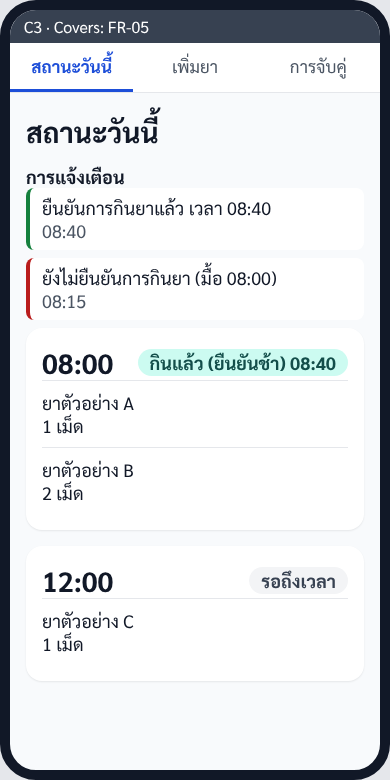
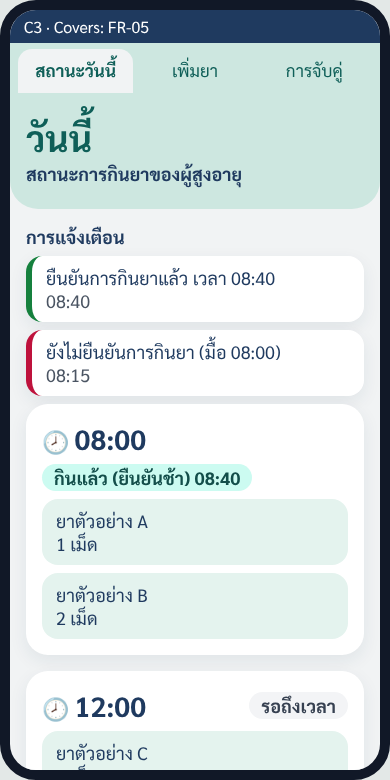
ปรับธีม prototype: โทนมิ้นต์ หัวข้อใหญ่ ปุ่มทรงแคปซูล
- tokens.css / app.css: พื้นเทาอ่อน + แถบหัวมิ้นต์, การ์ดขาวมุมมน, ปุ่มทรงแคปซูล,
  ปุ่มบันทึกยาวเต็มด้านล่างจอ, bottom sheet ยืนยันยกเลิกการจับคู่
- สีปุ่มเข้มพอให้ตัวขาวผ่าน contrast ≥ 4.5:1 (ต่ำสุด 5.02:1) · ขนาดตาม NFR-03 เดิม
- design-system.md §1: ตารางสี ขนาด และ contrast ตามธีมใหม่
- ภาพหน้าจอ S1–S3, C1–C3 ถ่ายใหม่

Claude-Session: https://claude.ai/code/session_011WknSPL7ZDt9uLxW735azq

diff --git a/prototype/src/app.css b/prototype/src/app.css
@@ -1,5 +1,5 @@
 * { box-sizing: border-box; }
-body { margin: 0; background: #E5E7EB; font-family: var(--font-family); color: var(--color-text); font-size: var(--font-body); }
+body { margin: 0; background: #E3E8E7; font-family: var(--font-family); color: var(--color-text); font-size: var(--font-body); }
 button, input, select, textarea { font: inherit; }
 
 /* ---------- เครื่องมือ demo (ไม่ใช่ส่วนของแอป) ---------- */
@@ -21,68 +21,88 @@ button, input, select, textarea { font: inherit; }
 .phone { width: 390px; max-width: calc(100vw - 24px); height: 780px; background: var(--color-bg); border: 10px solid #111827;
   border-radius: 36px; overflow: hidden; display: flex; flex-direction: column; position: relative; }
 .covers { background: var(--color-covers-bg); color: #fff; font-size: 16px; padding: 6px 14px; flex: none; }
-.screen { flex: 1; overflow-y: auto; padding: var(--space-2); }
-.screen h3 { font-size: var(--font-title); margin: 4px 0 var(--space-2); }
+.screen { flex: 1; overflow-y: auto; padding: 0 var(--space-2) var(--space-2); }
+
+/* แถบหัวมิ้นต์ + หัวข้อใหญ่ (สไตล์ "วันนี้" ในภาพอ้างอิง) */
+.hero { background: var(--color-header); margin: 0 calc(-1 * var(--space-2)) var(--space-2); padding: var(--space-3) var(--space-2) var(--space-3);
+  border-radius: 0 0 28px 28px; }
+.hero h3 { font-size: var(--font-hero); color: var(--color-title); margin: 0; line-height: 1.15; }
+.hero .sub { color: var(--color-text); font-weight: 600; margin-top: 4px; }
+.avatar { width: 84px; height: 84px; border-radius: 50%; background: var(--color-primary); color: #fff; display: grid; place-items: center;
+  font-size: 40px; margin: 0 auto var(--space-1); box-shadow: var(--shadow-card); }
 
 .card { background: var(--color-surface); border-radius: var(--radius-card); padding: var(--space-2); margin-bottom: var(--space-2);
-  box-shadow: 0 1px 2px rgba(0,0,0,.08); }
+  box-shadow: var(--shadow-card); }
 .muted { color: var(--color-text-muted); }
 .center { text-align: center; }
 
 .btn { display: block; width: 100%; min-height: var(--button-height); border: 0; border-radius: var(--radius-button);
-  font-size: var(--font-button); font-weight: 700; color: #fff; background: var(--color-primary); cursor: pointer; margin-top: var(--space-2); }
-.btn:disabled { background: #9CA3AF; cursor: not-allowed; }
+  font-size: var(--font-button); font-weight: 700; color: #fff; background: var(--color-primary); cursor: pointer; margin-top: 12px;
+  box-shadow: 0 4px 10px rgba(15, 118, 110, .18); }
+.btn:disabled { background: #9CA3AF; box-shadow: none; cursor: not-allowed; }
 .btn.taken { background: var(--color-taken); }
-.btn.not-yet { background: var(--color-not-yet); }
+.btn.not-yet { background: var(--color-not-yet); box-shadow: 0 4px 10px rgba(190, 18, 60, .18); }
 .btn.danger { background: var(--color-not-yet); }
-.btn.ghost { background: transparent; color: var(--color-primary); border: 2px solid var(--color-primary); }
-.pair-buttons .btn + .btn { margin-top: var(--space-2); }
+.btn.ghost { background: var(--color-mint-soft); color: var(--color-title); box-shadow: none; }
 .link { background: none; border: 0; color: var(--color-primary); text-decoration: underline; cursor: pointer; padding: 8px 0; font-size: var(--font-body); }
 
-.code { font-size: 44px; font-weight: 700; letter-spacing: 8px; font-variant-numeric: tabular-nums; }
+/* ปุ่มยาวเต็มด้านล่างจอ (สไตล์ "ต่อไป" ในภาพอ้างอิง) */
+.bottom-bar { flex: none; padding: 10px var(--space-2) 14px; background: var(--color-surface); box-shadow: 0 -4px 12px rgba(31, 58, 95, .08); }
+.bottom-bar .btn { margin-top: 0; }
+.bottom-bar .btn + .btn { margin-top: 8px; }
+
+.code { font-size: 44px; font-weight: 700; letter-spacing: 8px; font-variant-numeric: tabular-nums; color: var(--color-text); }
 canvas.qr { width: 168px; height: 168px; image-rendering: pixelated; display: block; margin: 0 auto var(--space-1); }
 
-.badge { display: inline-block; border-radius: var(--radius-badge); padding: 2px 12px; font-size: var(--font-body); font-weight: 600; }
+.badge { display: inline-block; border-radius: var(--radius-badge); padding: 2px 12px; font-size: var(--font-body); font-weight: 600; white-space: nowrap; }
 .badge.taken { color: var(--badge-taken-fg); background: var(--badge-taken-bg); }
 .badge.takenLate { color: var(--badge-late-fg); background: var(--badge-late-bg); }
 .badge.reminding { color: var(--badge-reminding-fg); background: var(--badge-reminding-bg); }
 .badge.unconfirmed { color: var(--badge-unconf-fg); background: var(--badge-unconf-bg); }
 .badge.waiting { color: var(--badge-waiting-fg); background: var(--badge-waiting-bg); }
 
-.meal-head { display: flex; justify-content: space-between; align-items: center; gap: 8px; }
-.meal-time { font-size: var(--font-title); font-weight: 700; }
-.med { border-top: 1px solid #E5E7EB; padding: 10px 0; }
-.med:first-of-type { border-top: 0; }
+.meal-head { display: flex; flex-wrap: wrap; justify-content: space-between; align-items: center; gap: 8px; margin-bottom: 8px; }
+.meal-time { font-size: var(--font-title); font-weight: 700; white-space: nowrap; }
+.meal-time::before { content: "🕗 "; font-size: 22px; }
+.med { background: var(--color-mint-soft); border-radius: 16px; padding: 10px 14px; margin-top: 8px; }
 .med-name { font-size: var(--font-medicine); font-weight: 700; }
 
-.banner { background: var(--badge-reminding-bg); color: var(--badge-reminding-fg); border-radius: var(--radius-card); padding: 12px; margin-bottom: var(--space-2); font-weight: 600; cursor: pointer; }
-.msg { border-radius: 12px; padding: 12px; margin: var(--space-2) 0; font-weight: 600; }
+.banner { background: var(--badge-reminding-bg); color: var(--badge-reminding-fg); border-radius: var(--radius-card); padding: 12px 16px; margin-bottom: var(--space-2); font-weight: 600; cursor: pointer; }
+.msg { border-radius: 16px; padding: 12px 16px; margin: var(--space-2) 0; font-weight: 600; }
 .msg.error { background: var(--badge-unconf-bg); color: var(--badge-unconf-fg); }
 .msg.ok { background: var(--badge-taken-bg); color: var(--badge-taken-fg); }
-.msg.info { background: var(--badge-waiting-bg); color: var(--badge-waiting-fg); }
+.msg.info { background: var(--color-surface); color: var(--color-text); box-shadow: var(--shadow-card); }
 
-.tabs { display: flex; background: var(--color-surface); border-bottom: 1px solid #E5E7EB; flex: none; }
-.tabs button { flex: 1; border: 0; background: none; padding: 12px 4px; font-size: 17px; cursor: pointer; color: var(--color-text-muted); border-bottom: 3px solid transparent; }
-.tabs button.active { color: var(--color-primary); border-bottom-color: var(--color-primary); font-weight: 700; }
+.tabs { display: flex; background: var(--color-header); flex: none; padding: 6px 8px 0; gap: 4px; }
+.tabs button { flex: 1; border: 0; background: none; padding: 10px 4px 12px; font-size: 17px; cursor: pointer; color: var(--color-title);
+  border-radius: 14px 14px 0 0; }
+.tabs button.active { background: var(--color-bg); font-weight: 700; }
+.tabs + .screen .hero { border-radius: 0 0 28px 28px; }
 
 .field { margin-bottom: 12px; }
 .field label { display: block; font-weight: 600; margin-bottom: 4px; }
-.field input, .field select, .field textarea { width: 100%; min-height: 48px; padding: 8px 10px; border: 1px solid #9CA3AF; border-radius: 10px; background: #fff; color: var(--color-text); }
+.field input, .field select, .field textarea { width: 100%; min-height: 52px; padding: 8px 16px; border: 2px solid transparent; border-radius: 18px;
+  background: var(--color-mint-soft); color: var(--color-text); }
+.field input:focus, .field select:focus { outline: none; border-color: var(--color-primary); background: #fff; }
 .field.check input, .field.check select { background: var(--color-check-bg); border-color: var(--color-check-text); }
-.check-tag { display: inline-block; margin-left: 6px; color: var(--color-check-text); background: var(--color-check-bg); border-radius: 6px; padding: 0 8px; font-size: 16px; font-weight: 600; }
+.check-tag { display: inline-block; margin-left: 6px; color: var(--color-check-text); background: var(--color-check-bg); border-radius: 999px; padding: 0 10px; font-size: 16px; font-weight: 600; }
 .grid2 { display: grid; grid-template-columns: 1fr 1fr; gap: 8px; }
-.samples button { display: block; width: 100%; text-align: left; margin-bottom: 8px; padding: 12px; min-height: 56px; border-radius: 12px; border: 1px solid #9CA3AF; background: #fff; cursor: pointer; }
+.samples button { display: block; width: 100%; text-align: left; margin-bottom: 10px; padding: 12px 16px; min-height: 56px; border-radius: 18px;
+  border: 0; background: var(--color-surface); box-shadow: var(--shadow-card); cursor: pointer; color: var(--color-text); }
 .samples small { display: block; color: var(--color-text-muted); font-size: 15px; }
 
-.note { border-left: 4px solid var(--color-primary); padding: 8px 12px; background: var(--color-surface); border-radius: 8px; margin-bottom: 8px; }
+.note { padding: 10px 14px; background: var(--color-surface); border-radius: 16px; margin-bottom: 8px; box-shadow: var(--shadow-card); border-left: 6px solid var(--color-primary); }
 .note.UNCONFIRMED { border-left-color: var(--color-not-yet); }
 .note.CONFIRMED_LATE { border-left-color: var(--color-taken); }
+.section-label { font-weight: 700; margin: 4px 0 8px; }
 
-.dialog { position: absolute; inset: 0; background: rgba(17,24,39,.55); display: flex; align-items: flex-end; }
-.dialog .card { width: 100%; margin: 0; border-radius: 20px 20px 0 0; padding: var(--space-3); }
+/* กล่องยืนยันแบบแผ่นเลื่อนขึ้นจากล่าง (สไตล์ bottom sheet ในภาพอ้างอิง) */
+.dialog { position: absolute; inset: 0; background: rgba(17, 24, 39, .55); display: flex; align-items: flex-end; }
+.dialog .card { width: 100%; margin: 0; border-radius: 28px 28px 0 0; padding: var(--space-3); }
+.dialog .card::before { content: ""; display: block; width: 48px; height: 5px; border-radius: 3px; background: #CBD5E1; margin: -8px auto 16px; }
+
+/* NFR-03: ปุ่ม "กินแล้ว" / "ยังไม่กิน" กว้างเต็มความกว้างจอ (ไม่ถูกขอบการ์ดบีบ) */
+.card .btn.taken, .card .btn.not-yet { width: calc(100% + 2 * var(--space-2)); margin-left: calc(-1 * var(--space-2)); }
 
 .ring { animation: ring .6s ease-in-out 2; }
 @keyframes ring { 0%,100% { transform: none; } 25% { transform: rotate(-1.5deg); } 75% { transform: rotate(1.5deg); } }
-
-/* NFR-03: ปุ่ม "กินแล้ว" / "ยังไม่กิน" กว้างเต็มความกว้างจอ (ไม่ถูกขอบการ์ดบีบ) */
-.card .btn.taken, .card .btn.not-yet { width: calc(100% + 2 * var(--space-2)); margin-left: calc(-1 * var(--space-2)); border-radius: 0; }

diff --git a/prototype/src/app.js b/prototype/src/app.js
@@ -121,12 +121,13 @@
     const el = document.getElementById('senior');
     const scr = seniorScreen();
     const covers = { S1: 'S1 · Covers: FR-01', S2: 'S2 · Covers: FR-03, FR-04', S3: 'S3 · Covers: FR-04 (BR-15)' }[scr];
+    const hero = (title, sub) => '<div class="hero"><h3>' + title + '</h3>' + (sub ? '<div class="sub">' + sub + '</div>' : '') + '</div>';
+    const soundBanner = !S.soundOn && scr !== 'S1' ? '<div class="banner" data-act="sound">🔔 แตะที่นี่เพื่อเปิดเสียงเตือน</div>' : '';
     let body = '';
-    if (!S.soundOn && scr !== 'S1') body += '<div class="banner" data-act="sound">🔔 แตะที่นี่เพื่อเปิดเสียงเตือน</div>';
 
     if (scr === 'S1') {
       const inv = S.store.invite, expired = S.now >= inv.expiresAt || inv.usedAt !== null;
-      body += '<h3>เชื่อมต่อกับลูกหลาน</h3><div class="card center">' +
+      body += hero('เชื่อมต่อ<br>กับลูกหลาน', 'ให้ลูกหลานสแกน QR หรือใส่รหัส 6 หลัก') + '<div class="card center">' +
         '<canvas class="qr" id="qr"></canvas><div class="muted">(QR จำลอง)</div>' +
         '<div class="code">' + inv.code + '</div>' +
         '<div class="muted">' + (expired ? 'รหัสนี้หมดอายุแล้ว — กดสร้างรหัสใหม่' : 'ใช้ได้ 1 ครั้ง ถึงเวลา ' + fmt(inv.expiresAt)) + '</div></div>' +
@@ -138,7 +139,7 @@
 
     if (scr === 'S2') {
       const due = M.dueSessions(S.store, S.now).filter((x) => !S.dismissed[x.id]);
-      body += '<h3>ถึงเวลากินยา</h3>' + due.map(function (sess) {
+      body += hero('ถึงเวลากินยา', 'เวลา ' + fmt(S.now) + ' น.') + soundBanner + due.map(function (sess) {
         const late = sess.status === 'unconfirmed';
         return '<div class="card"><div class="meal-head"><span class="meal-time">มื้อ ' + fmt(sess.T) + '</span>' +
           (late ? badge(sess) : '<span class="muted">รอบ ' + sess.round + '/3</span>') + '</div>' + medLines(sess, true) +
@@ -148,7 +149,7 @@
     }
 
     if (scr === 'S3') {
-      body += '<h3>วันนี้</h3>' + msg(S.srMsg);
+      body += hero('วันนี้', 'เวลา ' + fmt(S.now) + ' น.') + soundBanner + msg(S.srMsg);
       if (!S.store.sessions.length) body += '<div class="card center muted">ยังไม่มีมื้อยาวันนี้</div>';
       S.store.sessions.forEach(function (sess) {
         const canLate = M.canConfirmLate(S.store, sess, S.now);
@@ -184,21 +185,26 @@
     if (tab === 'C1') body = caregiverPairing();
     if (tab === 'C2') body = caregiverAddMedication();
     if (tab === 'C3') body = caregiverStatus();
-    el.innerHTML = '<div class="covers">' + covers + '</div>' + tabs + '<div class="screen">' + body + '</div>' + unpairDialog('caregiver');
+    const bottom = tab === 'C2' && S.draft
+      ? '<div class="bottom-bar"><button class="btn taken" id="save-btn" data-act="save">บันทึก</button>' +
+        '<button class="btn ghost" data-act="cancel-draft">ยกเลิก</button></div>' : '';
+    el.innerHTML = '<div class="covers">' + covers + '</div>' + tabs + '<div class="screen">' + body + '</div>' + bottom + unpairDialog('caregiver');
   }
 
   function caregiverPairing() {
     if (paired()) {
-      return '<h3>การจับคู่</h3><div class="msg ok">เชื่อมต่อแล้ว กับโทรศัพท์ของผู้สูงอายุ</div>' + msg(S.cgMsg) +
+      return cgHero('การจับคู่', 'โทรศัพท์ของผู้สูงอายุ') + '<div class="msg ok">เชื่อมต่อแล้ว กับโทรศัพท์ของผู้สูงอายุ</div>' + msg(S.cgMsg) +
         '<button class="btn danger" data-act="unpair-ask" data-side="caregiver">ยกเลิกการจับคู่</button>';
     }
-    return '<h3>เชื่อมต่อกับผู้สูงอายุ</h3>' +
+    return cgHero('เชื่อมต่อ<br>กับผู้สูงอายุ', 'สแกน QR หรือใส่รหัสจากโทรศัพท์ผู้สูงอายุ') +
       (S.cameraAllowed
         ? '<button class="btn" data-act="scan-qr">สแกน QR (จำลอง)</button><p class="center muted">หรือใส่รหัส 6 หลัก</p>'
         : '<div class="msg info">ไม่ได้รับอนุญาตใช้กล้อง — ใส่รหัส 6 หลักแทน</div>') +
       '<div class="field"><label for="code-in">รหัสเชิญ</label><input id="code-in" inputmode="numeric" maxlength="6" placeholder="000000"></div>' +
       '<button class="btn" data-act="pair-code">เชื่อมต่อ</button>' + msg(S.cgMsg);
   }
+
+  function cgHero(title, sub) { return '<div class="hero"><h3>' + title + '</h3><div class="sub">' + sub + '</div></div>'; }
 
   const PAIR_ERRORS = {
     NO_CONSENT: 'รอผู้สูงอายุกดยินยอมก่อน ยังไม่เชื่อมต่อ',
@@ -213,9 +219,9 @@
   }
 
   function caregiverAddMedication() {
-    let h = '<h3>เพิ่มยาจากฉลาก</h3>' + msg(S.cgMsg);
+    let h = cgHero('เพิ่มยาจากฉลาก', S.draft ? 'ตรวจและแก้ร่างก่อนบันทึก' : 'ถ่ายรูปฉลากยา แล้วตรวจก่อนบันทึก') + msg(S.cgMsg);
     if (S.saved) {
-      h += '<div class="card"><b>ยาที่บันทึกแล้ว</b>' + S.store.medications.map(function (m) {
+      h += '<div class="card"><div class="section-label">ยาที่บันทึกแล้ว</div>' + S.store.medications.map(function (m) {
         return '<div class="med">' + esc(m.name) + ' · ' + m.tabletsPerDose + ' เม็ด · เตือน ' + fmt(m.reminderTime) + '</div>';
       }).join('') + '</div>';
     }
@@ -249,9 +255,7 @@
           return '<div class="field"><label>' + k[1] + '</label><input type="time" data-meal="' + k[0] + '" value="' + fmt(md[k[0]]) + '"></div>';
         }).join('') + '</div></div>';
     }
-    h += '<div class="muted" id="preview"></div>' +
-      '<button class="btn taken" id="save-btn" data-act="save">บันทึก</button>' +
-      '<button class="btn ghost" data-act="cancel-draft">ยกเลิก</button>';
+    h += '<div class="msg info" id="preview"></div>';
     return h;
   }
 
@@ -276,10 +280,10 @@
   function caregiverStatus() {
     const st = M.dailyStatus(S.store, CAREGIVER);
     if (!st.ok) return '<div class="msg error">ไม่มีสิทธิ์ดูข้อมูลนี้</div>';
-    let h = '<h3>สถานะวันนี้</h3>';
+    let h = cgHero('วันนี้', 'สถานะการกินยาของผู้สูงอายุ');
     const notes = S.store.notifications.slice().reverse();
     if (notes.length) {
-      h += '<b>การแจ้งเตือน</b>' + notes.map(function (n) {
+      h += '<div class="section-label">การแจ้งเตือน</div>' + notes.map(function (n) {
         return '<div class="note ' + n.type + '">' + esc(n.message) + '<div class="muted">' + fmt(n.sentAt) + '</div></div>';
       }).join('');
     }

diff --git a/prototype/src/tokens.css b/prototype/src/tokens.css
@@ -1,23 +1,28 @@
-/* Design tokens — ค่าตาม docs/03-design/design-system.md §1 (NFR-03) */
+/* Design tokens — ค่าตาม docs/03-design/design-system.md §1 (NFR-03)
+   โทนสี: พื้นเทาอ่อน + มิ้นต์ (ตามภาพอ้างอิง) · ตัวอักษรกรมท่าเข้ม · ปุ่มเข้มพอให้ตัวขาวผ่าน contrast ≥ 4.5:1 */
 :root {
-  --color-bg: #F8FAFC;
-  --color-surface: #FFFFFF;
-  --color-text: #111827;
-  --color-text-muted: #4B5563;
-  --color-primary: #1D4ED8;
-  --color-taken: #15803D;
-  --color-not-yet: #B91C1C;
+  --color-bg: #F1F3F4;           /* พื้นหลังหน้า */
+  --color-header: #CDE7E0;       /* แถบหัวมิ้นต์อ่อน */
+  --color-mint-soft: #E4F3EE;    /* พื้นรายการยาในการ์ด / ปุ่มรอง */
+  --color-surface: #FFFFFF;      /* การ์ด */
+  --color-text: #1F3A5F;         /* ข้อความหลัก (กรมท่า) */
+  --color-text-muted: #4B5563;   /* ข้อความรอง */
+  --color-title: #0F5F58;        /* หัวข้อใหญ่บนแถบมิ้นต์ */
+  --color-primary: #0F766E;      /* ปุ่มหลัก / ลิงก์ (เขียวอมฟ้าเข้ม) */
+  --color-taken: #15803D;        /* ปุ่ม "กินแล้ว" (เขียว) */
+  --color-not-yet: #BE123C;      /* ปุ่ม "ยังไม่กิน" (แดงอมชมพู) */
   --color-check-bg: #FEF3C7;
   --color-check-text: #92400E;
-  --color-covers-bg: #374151;
+  --color-covers-bg: #1F3A5F;
 
   --badge-taken-fg: #14532D;     --badge-taken-bg: #DCFCE7;
   --badge-late-fg: #134E4A;      --badge-late-bg: #CCFBF1;
   --badge-reminding-fg: #1E3A8A; --badge-reminding-bg: #DBEAFE;
-  --badge-unconf-fg: #7F1D1D;    --badge-unconf-bg: #FEE2E2;
+  --badge-unconf-fg: #7F1D1D;    --badge-unconf-bg: #FFE4E1;
   --badge-waiting-fg: #374151;   --badge-waiting-bg: #F3F4F6;
 
   --font-family: "Sarabun", "Noto Sans Thai", "Leelawadee UI", "Tahoma", sans-serif;
+  --font-hero: 36px;
   --font-medicine: 24px;
   --font-title: 28px;
   --font-body: 18px;
@@ -25,7 +30,8 @@
   --button-height: 64px;
 
   --space-1: 8px; --space-2: 16px; --space-3: 24px; --space-4: 32px;
-  --radius-card: 16px;
-  --radius-button: 12px;
+  --radius-card: 22px;
+  --radius-button: 999px;        /* ปุ่มทรงแคปซูล */
   --radius-badge: 999px;
+  --shadow-card: 0 6px 18px rgba(31, 58, 95, .08);
 }

diff --git a/docs/03-design/design-system.md b/docs/03-design/design-system.md
@@ -6,19 +6,24 @@
 
 ## 1. Tokens
 
+แนวหน้าตา: พื้นเทาอ่อน + แถบหัวสีมิ้นต์ หัวข้อตัวใหญ่ การ์ดสีขาวมุมมน ปุ่มทรงแคปซูล และปุ่มหลักยาวเต็มด้านล่างจอ (อ้างอิงโทนสีจากภาพตัวอย่างแอปเตือนกินยาที่ทีมเลือก) · ทุกสีตรวจ contrast แล้ว (§1.4) — สีพาสเทลในภาพตัวอย่างใช้เป็นพื้นเท่านั้น ไม่ใช้กับตัวอักษรสีขาว เพราะ contrast ไม่ถึง 4.5:1
+
 ### 1.1 สี
 
 | Token | ค่า | ใช้กับ |
 |---|---|---|
-| `--color-bg` | `#F8FAFC` | พื้นหลังหน้า |
-| `--color-surface` | `#FFFFFF` | พื้นการ์ด กล่องข้อความ ช่องกรอก |
-| `--color-text` | `#111827` | ข้อความหลัก ชื่อยา |
-| `--color-text-muted` | `#4B5563` | ข้อความรอง เช่น เวลา คำอธิบาย |
-| `--color-primary` | `#1D4ED8` | ปุ่มหลักทั่วไป ลิงก์ |
-| `--color-taken` | `#15803D` | ปุ่ม **"กินแล้ว"** (เขียว) |
-| `--color-not-yet` | `#B91C1C` | ปุ่ม **"ยังไม่กิน"** (แดง) · ปุ่มยืนยันยกเลิกการจับคู่ |
+| `--color-bg` | `#F1F3F4` | พื้นหลังหน้า (เทาอ่อน) |
+| `--color-header` | `#CDE7E0` | แถบหัวด้านบนของทุกหน้า (มิ้นต์อ่อน) · แท็บ Caregiver |
+| `--color-mint-soft` | `#E4F3EE` | พื้นรายการยาในการ์ด · ช่องกรอก · ปุ่มรอง |
+| `--color-surface` | `#FFFFFF` | การ์ด · แถบปุ่มด้านล่าง |
+| `--color-text` | `#1F3A5F` | ข้อความหลัก ชื่อยา (กรมท่าเข้ม) |
+| `--color-text-muted` | `#4B5563` | ข้อความรอง |
+| `--color-title` | `#0F5F58` | หัวข้อใหญ่บนแถบมิ้นต์ · ตัวอักษรปุ่มรอง |
+| `--color-primary` | `#0F766E` | ปุ่มหลักทั่วไป ลิงก์ (เขียวอมฟ้าเข้ม) |
+| `--color-taken` | `#15803D` | ปุ่ม **"กินแล้ว"** (เขียว) · ปุ่ม "บันทึก" |
+| `--color-not-yet` | `#BE123C` | ปุ่ม **"ยังไม่กิน"** (แดงอมชมพู) · ปุ่มยืนยันยกเลิกการจับคู่ |
 | `--color-check-bg` / `--color-check-text` | `#FEF3C7` / `#92400E` | ช่อง "กรุณาตรวจสอบ" ในร่างจากฉลาก (BR-04) |
-| `--color-covers-bg` | `#374151` | แถบ "Covers: FR-x" บนสุดของทุกหน้า |
+| `--color-covers-bg` | `#1F3A5F` | แถบ "Covers: FR-x" บนสุดของทุกหน้า |
 
 **ป้ายสถานะมื้อยา** (หน้าแรก S3 และหน้าสถานะรายวัน C3 · คำตาม BR-14)
 
@@ -27,7 +32,7 @@
 | "กินแล้ว" + เวลา | `#14532D` / `#DCFCE7` |
 | "กินแล้ว (ยืนยันช้า)" + เวลา | `#134E4A` / `#CCFBF1` |
 | "กำลังเตือน" | `#1E3A8A` / `#DBEAFE` |
-| "ยังไม่ยืนยัน" | `#7F1D1D` / `#FEE2E2` |
+| "ยังไม่ยืนยัน" | `#7F1D1D` / `#FFE4E1` |
 | "รอถึงเวลา" | `#374151` / `#F3F4F6` |
 
 ### 1.2 ตัวอักษรและขนาด (NFR-03)
@@ -35,45 +40,50 @@
 | Token | ค่า | ใช้กับ | เกณฑ์ NFR-03 |
 |---|---|---|---|
 | `--font-family` | `"Sarabun", "Noto Sans Thai", "Leelawadee UI", "Tahoma", sans-serif` | ทุกข้อความ | — |
+| `--font-hero` | 36 px / ตัวหนา | หัวข้อใหญ่บนแถบมิ้นต์ เช่น "วันนี้", "ถึงเวลากินยา" | — |
 | `--font-medicine` | 24 px / ตัวหนา | ชื่อยาบนหน้าเตือน (S2) | ≥ 24 px ✓ |
-| `--font-title` | 28 px / ตัวหนา | หัวข้อหน้า เวลามื้อ | — |
+| `--font-title` | 28 px / ตัวหนา | เวลามื้อ | — |
 | `--font-body` | 18 px | ข้อความทั่วไป ป้ายสถานะ ช่องกรอก | ≥ 18 px ✓ |
 | `--font-button` | 22 px / ตัวหนา | ข้อความบนปุ่ม | — |
-| `--button-height` | 64 px · กว้าง 100% ของจอ | ปุ่ม "กินแล้ว" / "ยังไม่กิน" | ≥ 64 px, เต็มจอ ✓ |
+| `--button-height` | 64 px · กว้างเต็มจอ | ปุ่ม "กินแล้ว" / "ยังไม่กิน" | ≥ 64 px, เต็มจอ ✓ |
 
 แถบ "Covers: FR-x" ใช้ 16 px เพราะเป็นป้ายบอกผู้ตรวจตอน demo ไม่ใช่ข้อความที่ผู้ใช้อ่าน
 
-### 1.3 ระยะและมุม
+### 1.3 ระยะ มุม และเงา
 
 | Token | ค่า |
 |---|---|
 | ระยะ | 8 · 16 · 24 · 32 px |
-| `--radius-card` | 16 px |
-| `--radius-button` | 12 px |
-| `--radius-badge` | 999 px (ป้ายมนเต็ม) |
-| ระยะห่างระหว่างปุ่ม "กินแล้ว" กับ "ยังไม่กิน" | ≥ 16 px (กันกดพลาด) |
+| `--radius-card` | 22 px |
+| `--radius-button` | 999 px (ปุ่มทรงแคปซูล) |
+| `--radius-badge` | 999 px |
+| `--shadow-card` | เงาบาง `0 6px 18px` สีกรมท่าโปร่ง 8% |
+| ระยะห่างระหว่างปุ่ม "กินแล้ว" กับ "ยังไม่กิน" | ≥ 12 px (กันกดพลาด) |
 
 ### 1.4 ความต่างสี (NFR-03: ≥ 4.5:1)
 
-คำนวณด้วยสูตร contrast ratio ของ WCAG 2.2 จากค่าสีในตารางด้านบน — วัดซ้ำบนหน้าจริงของ prototype ด้วยตัวตรวจ contrast อีกครั้ง (ยังไม่ได้วัด) · ค่าเดียวกันอยู่ใน [`prototype/src/tokens.css`](../../prototype/src/tokens.css)
+คำนวณด้วยสูตร contrast ratio ของ WCAG 2.2 จากค่าสีในตารางด้านบน — ยังไม่ได้วัดซ้ำบนหน้าจริงด้วยตัวตรวจ contrast · ค่าเดียวกันอยู่ใน [`prototype/src/tokens.css`](../../prototype/src/tokens.css)
 
 | คู่สี | Contrast | ผ่าน ≥ 4.5:1 |
 |---|---|---|
 | ตัวขาวบนปุ่ม "กินแล้ว" `#15803D` | 5.02 : 1 | ✓ |
-| ตัวขาวบนปุ่ม "ยังไม่กิน" `#B91C1C` | 6.47 : 1 | ✓ |
-| ตัวขาวบนปุ่มหลัก `#1D4ED8` | 6.70 : 1 | ✓ |
-| ข้อความหลักบนการ์ด | 17.74 : 1 | ✓ |
-| ข้อความหลักบนพื้นหน้า | 16.96 : 1 | ✓ |
-| ข้อความรองบนการ์ด | 7.56 : 1 | ✓ |
-| ข้อความรองบนพื้นหน้า | 7.22 : 1 | ✓ |
+| ตัวขาวบนปุ่ม "ยังไม่กิน" `#BE123C` | 6.29 : 1 | ✓ |
+| ตัวขาวบนปุ่มหลัก `#0F766E` | 5.47 : 1 | ✓ |
+| ข้อความหลักบนการ์ดขาว | 11.48 : 1 | ✓ |
+| ข้อความหลักบนพื้นหน้า | 10.32 : 1 | ✓ |
+| ข้อความหลักบนแถบมิ้นต์ | 8.81 : 1 | ✓ |
+| ข้อความหลักบนพื้นรายการยา `#E4F3EE` | 10.04 : 1 | ✓ |
+| หัวข้อใหญ่ `#0F5F58` บนแถบมิ้นต์ | 5.75 : 1 | ✓ |
+| ข้อความรองบนการ์ดขาว | 7.56 : 1 | ✓ |
+| ข้อความรองบนพื้นหน้า | 6.79 : 1 | ✓ |
 | ป้าย "กินแล้ว" | 8.30 : 1 | ✓ |
 | ป้าย "กินแล้ว (ยืนยันช้า)" | 8.41 : 1 | ✓ |
 | ป้าย "กำลังเตือน" | 8.49 : 1 | ✓ |
-| ป้าย "ยังไม่ยืนยัน" | 8.20 : 1 | ✓ |
+| ป้าย "ยังไม่ยืนยัน" | 8.32 : 1 | ✓ |
 | ป้าย "รอถึงเวลา" | 9.37 : 1 | ✓ |
 | ช่อง "กรุณาตรวจสอบ" | 6.37 : 1 | ✓ |
-| ลิงก์บนการ์ด | 6.70 : 1 | ✓ |
-| แถบ "Covers: FR-x" | 10.31 : 1 | ✓ |
+| ลิงก์บนการ์ดขาว | 5.47 : 1 | ✓ |
+| แถบ "Covers: FR-x" | 11.48 : 1 | ✓ |
 
 ปุ่ม "กินแล้ว" กับ "ยังไม่กิน" ต่างกันทั้งสีและข้อความ — ไม่ใช้สีอย่างเดียวบอกความหมาย (สำหรับผู้ที่แยกสีเขียว/แดงไม่ออก)
 
